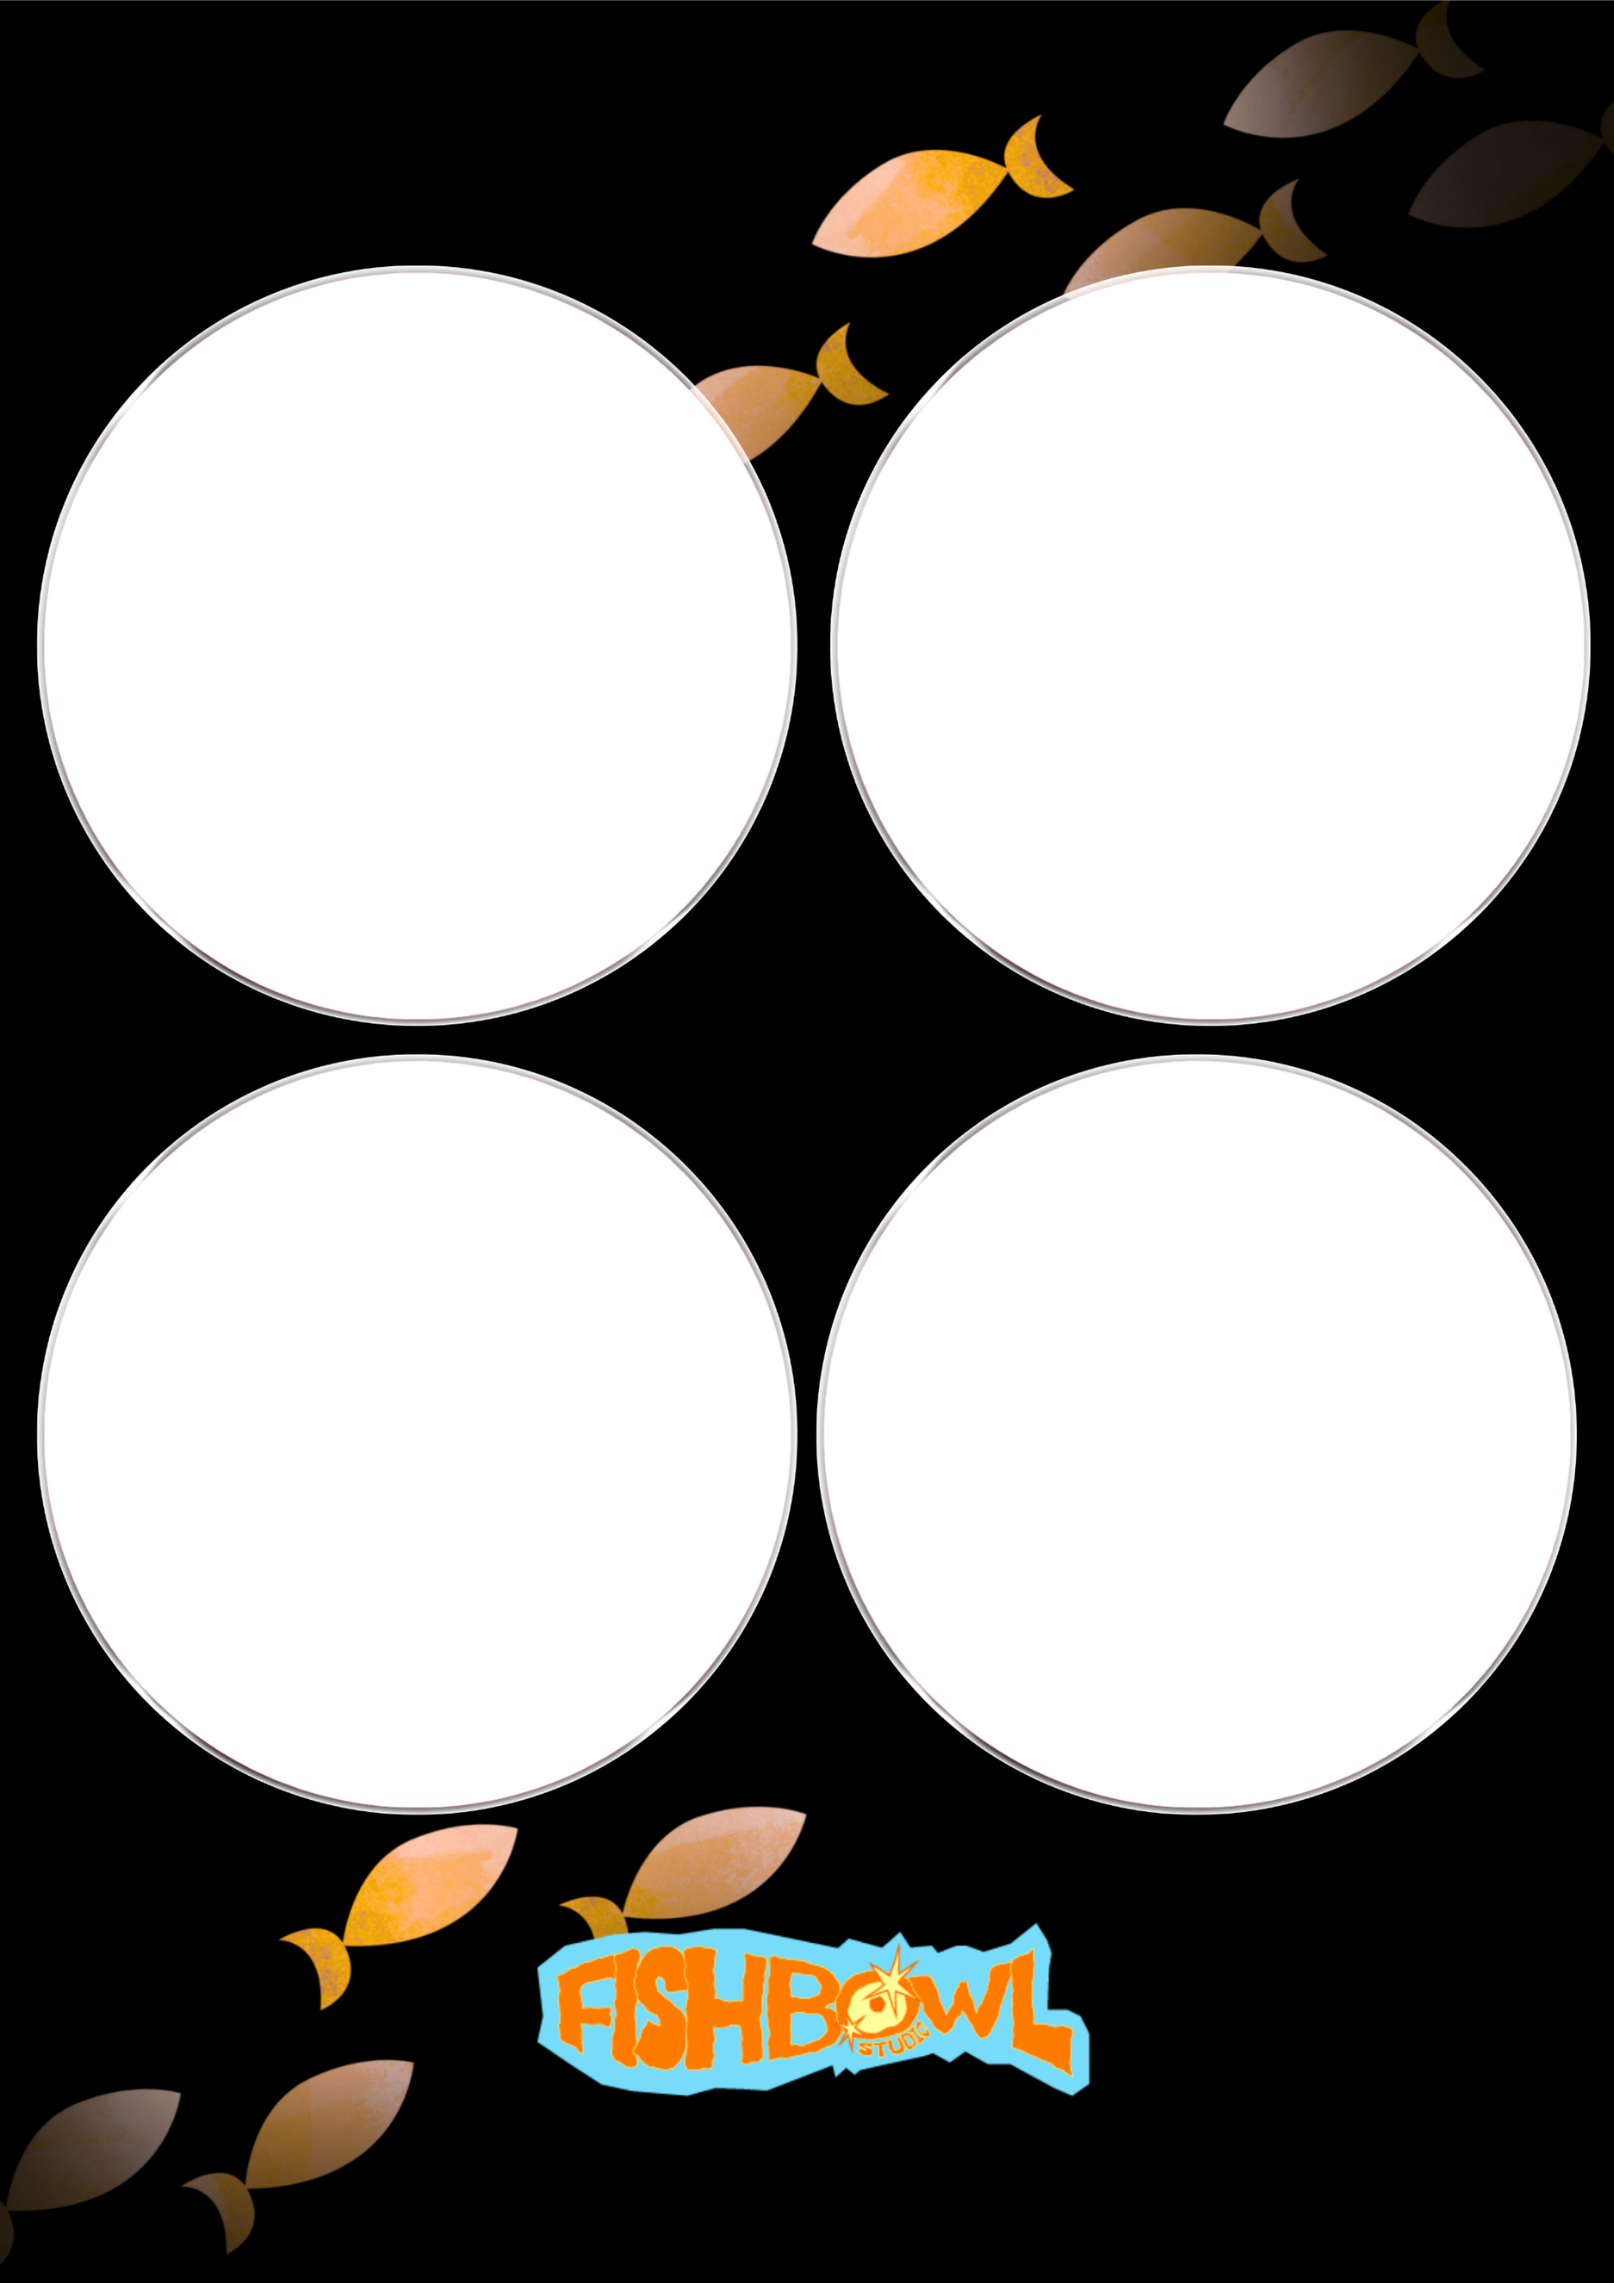
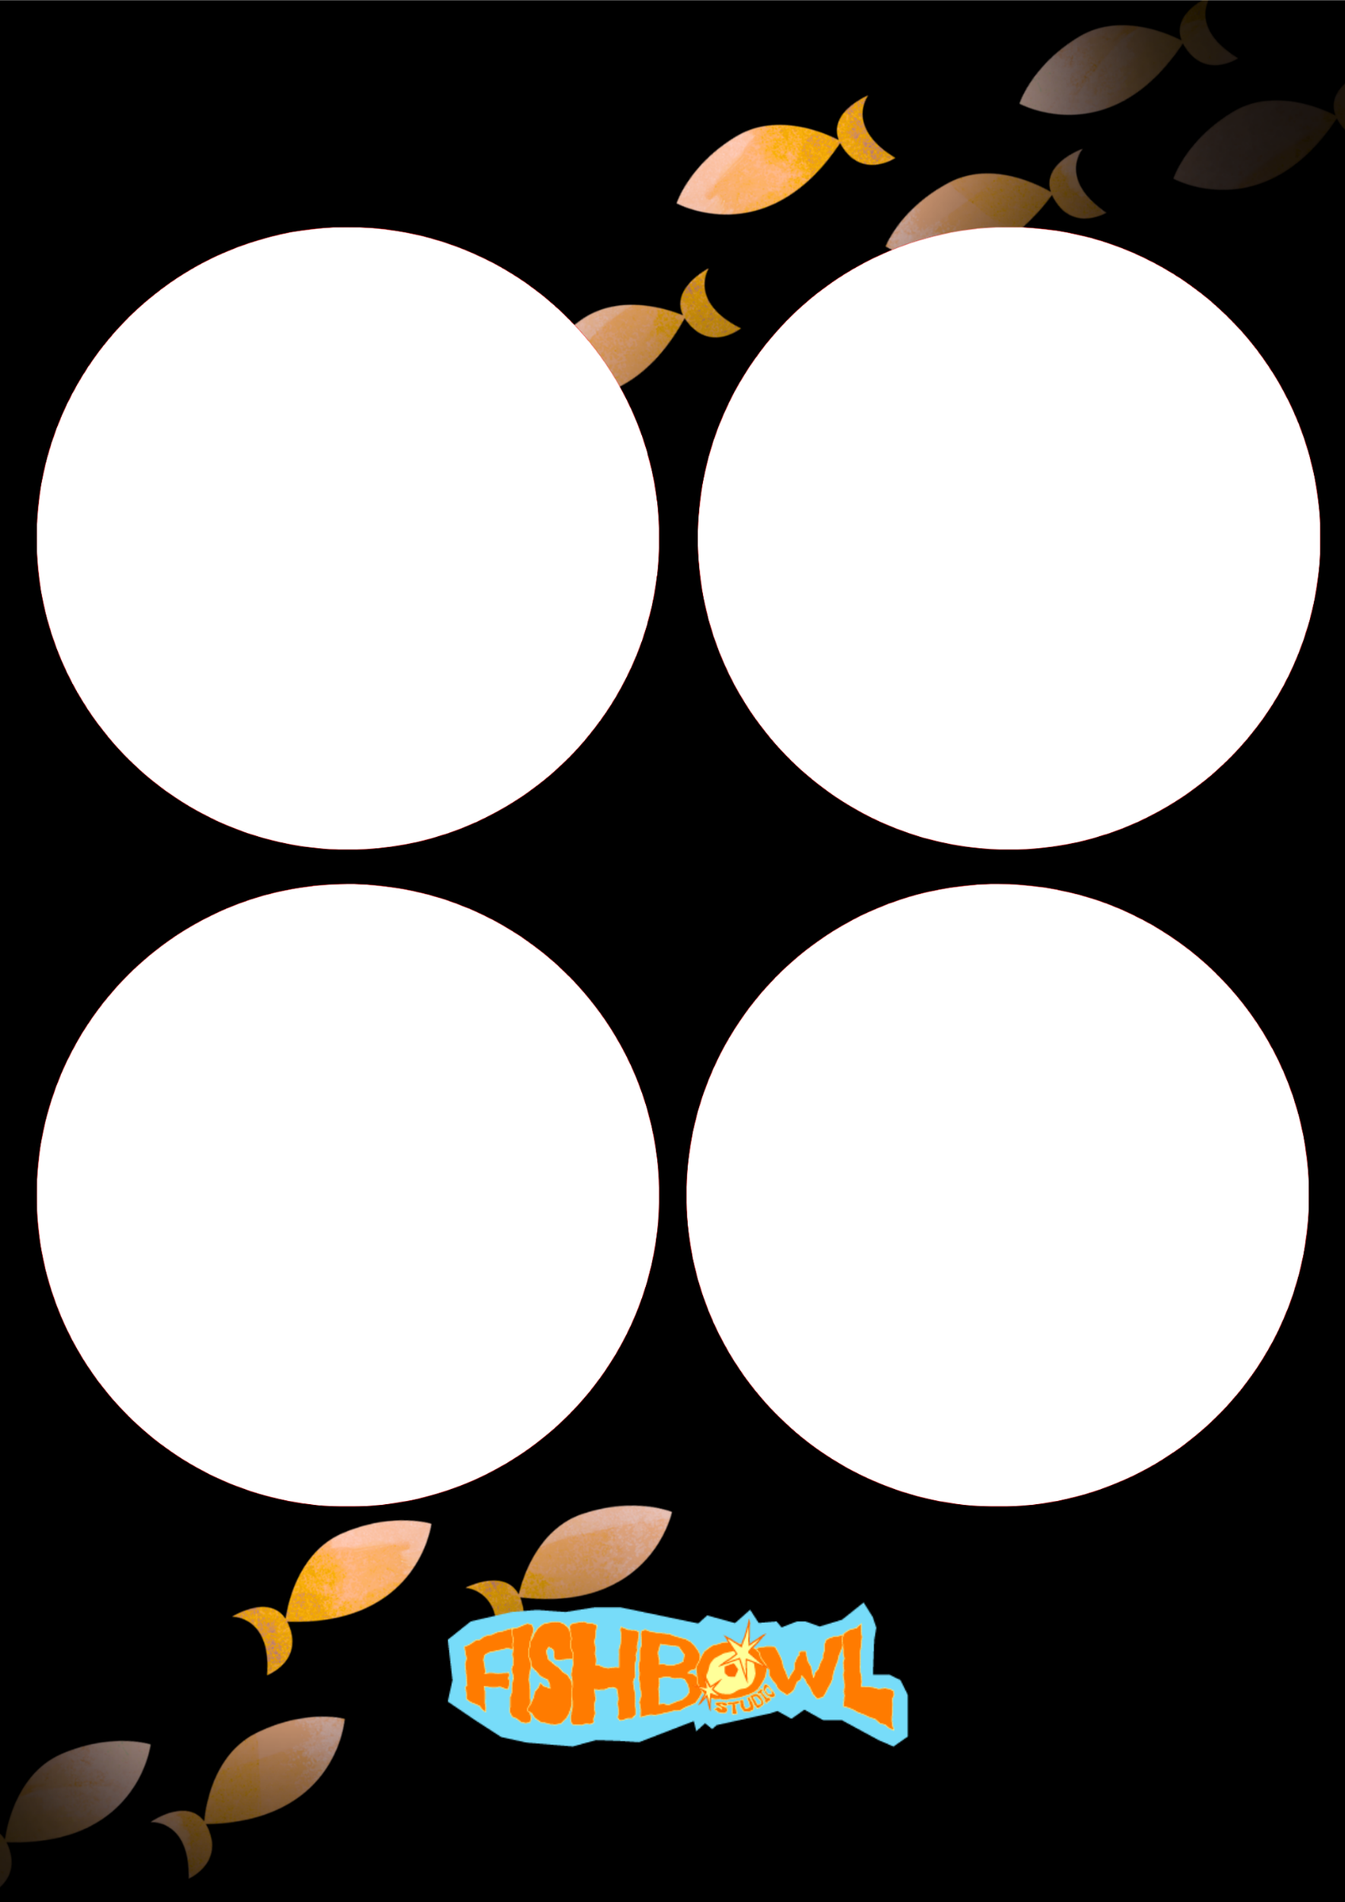
Re-measure slot coords for updated frame/keychain artwork
Updated PNGs resized the canvas and moved the transparent photo
windows; slot coordinates and canvas dimensions in lib/frames.ts
are re-measured from the new alpha channels to match.

diff --git a/lib/frames.ts b/lib/frames.ts
@@ -246,54 +246,54 @@ function wordmark(
 // Coordinates measured from each PNG's alpha channel (the transparent bubble
 // windows). Sizes vary per design because the artwork isn't a strict grid.
 
-const FIH_HALF = { w: 1324, h: 3750 };
+const FIH_HALF = { w: 880, h: 2500 };
 const fihHalfSlots: Slot[] = [
-  { x: 150, y: 144, w: 988, h: 913, circle: true },
-  { x: 163, y: 1256, w: 1031, h: 806, circle: true },
-  { x: 144, y: 2256, w: 1056, h: 994, circle: true },
+  { x: 81, y: 50, w: 698, h: 697, circle: true },
+  { x: 94, y: 762, w: 697, h: 698, circle: true },
+  { x: 94, y: 1496, w: 697, h: 698, circle: true },
 ];
 
-const NEMO_HALF = { w: 1054, h: 3000 };
+const NEMO_HALF = { w: 879, h: 2500 };
 const nemoHalfSlots: Slot[] = [
-  { x: 128, y: 76, w: 788, h: 796, circle: true },
-  { x: 128, y: 932, w: 788, h: 796, circle: true },
-  { x: 120, y: 1796, w: 804, h: 804, circle: true },
+  { x: 100, y: 60, w: 671, h: 672, circle: true },
+  { x: 100, y: 774, w: 671, h: 672, circle: true },
+  { x: 100, y: 1497, w: 670, h: 671, circle: true },
 ];
 
-const SEA_HALF = { w: 1326, h: 3750 };
+const SEA_HALF = { w: 886, h: 2500 };
 const seaHalfSlots: Slot[] = [
-  { x: 381, y: 300, w: 681, h: 694, circle: true },
-  { x: 388, y: 1400, w: 663, h: 688, circle: true },
-  { x: 388, y: 2506, w: 688, h: 706, circle: true },
+  { x: 92, y: 54, w: 705, h: 705, circle: true },
+  { x: 92, y: 787, w: 699, h: 699, circle: true },
+  { x: 92, y: 1521, w: 714, h: 714, circle: true },
 ];
 
-const FIH_FULL = { w: 1944, h: 2749 };
+const FIH_FULL = { w: 1768, h: 2500 };
 const fihFullSlots: Slot[] = [
-  { x: 132, y: 96, w: 896, h: 916, circle: true },
-  { x: 1016, y: 548, w: 896, h: 780, circle: true },
-  { x: 80, y: 1144, w: 820, h: 824, circle: true },
-  { x: 1004, y: 1616, w: 840, h: 760, circle: true },
+  { x: 98, y: 78, w: 847, h: 846, circle: true },
+  { x: 886, y: 482, w: 867, h: 867, circle: true },
+  { x: 29, y: 1007, w: 860, h: 859, circle: true },
+  { x: 886, y: 1383, w: 848, h: 849, circle: true },
 ];
 
-const NEMO_FULL = { w: 2121, h: 3000 };
+const NEMO_FULL = { w: 1768, h: 2500 };
 const nemoFullSlots: Slot[] = [
-  { x: 68, y: 368, w: 956, h: 968, circle: true },
-  { x: 1112, y: 368, w: 952, h: 968, circle: true },
-  { x: 68, y: 1404, w: 956, h: 964, circle: true },
-  { x: 1092, y: 1404, w: 956, h: 968, circle: true },
+  { x: 49, y: 300, w: 816, h: 816, circle: true },
+  { x: 918, y: 300, w: 816, h: 816, circle: true },
+  { x: 50, y: 1163, w: 815, h: 816, circle: true },
+  { x: 903, y: 1163, w: 817, h: 816, circle: true },
 ];
 
-const SEA_FULL = { w: 2652, h: 3750 };
+const SEA_FULL = { w: 1768, h: 2500 };
 const seaFullSlots: Slot[] = [
-  { x: 406, y: 313, w: 769, h: 794, circle: true },
-  { x: 1631, y: 838, w: 813, h: 825, circle: true },
-  { x: 388, y: 1631, w: 813, h: 838, circle: true },
-  { x: 1625, y: 2156, w: 788, h: 806, circle: true },
+  { x: 76, y: 39, w: 807, h: 807, circle: true },
+  { x: 887, y: 374, w: 847, h: 849, circle: true },
+  { x: 54, y: 902, w: 852, h: 853, circle: true },
+  { x: 887, y: 1262, w: 818, h: 820, circle: true },
 ];
 
 // Keychain: portrait tag (keyring hole at top) with a circular photo window.
-const KC = { w: 1415, h: 2000 };
-const keychainSlots: Slot[] = [{ x: 297, y: 997, w: 810, h: 797, circle: true }];
+const KC = { w: 1768, h: 2500 };
+const keychainSlots: Slot[] = [{ x: 286, y: 1174, w: 1196, h: 1197, circle: true }];
 
 // ---- the frames ----------------------------------------------------------------
 
